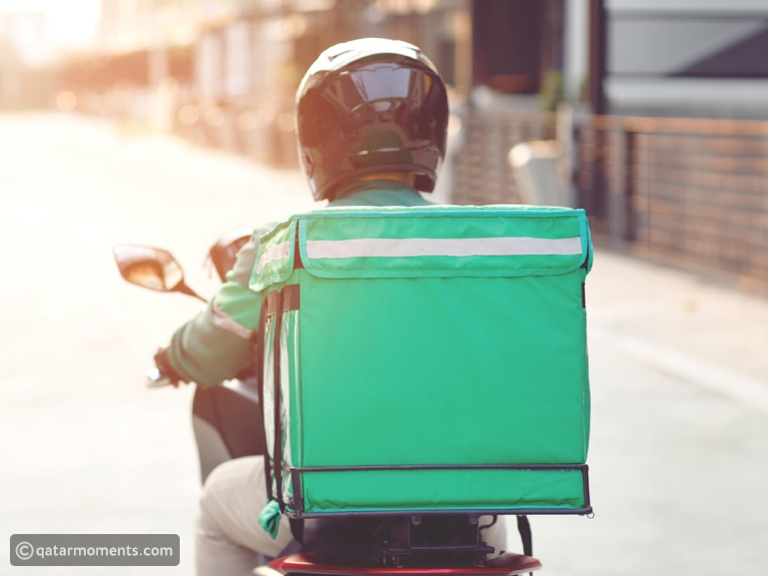
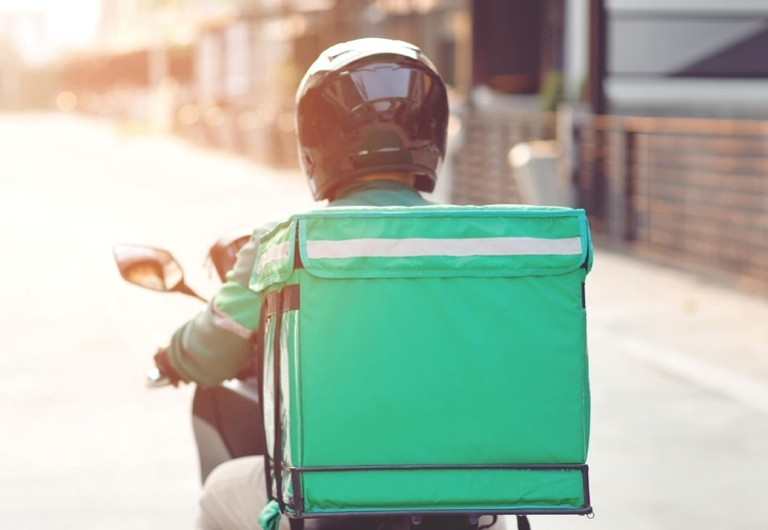
ajustei detalhes no home

diff --git a/assets/css/custom/home.css b/assets/css/custom/home.css
@@ -38,10 +38,10 @@
     background-size: cover;
     /* background-repeat: no-repeat; */
 }
-/* .banner{
+.banner{
     background-image: url("../../img/banner.png");
     background-size: cover;
-} */
+}
 .fundotxt{
     background-color: #491a0a;
     color:#e4bc81;
@@ -68,6 +68,9 @@
 .card-img{
     border-radius: 23px ;
 }
+/* .entrega-img{
+    height: 150vw;
+} */
 .icone{
     width: 40px !important;
     margin-right: 2vw;
@@ -345,3 +348,6 @@
     align-items: center;
     flex: 1;
 }
+/* .teste{
+    margin-
+} */

diff --git a/assets/css/custom/global.css b/assets/css/custom/global.css
@@ -24,7 +24,7 @@
   font-family: "open";
   text-align: justify;
   color:black;
-  font-size: 25px;
+  font-size: 23px;
   font-weight: bold;
 }
 .san{
@@ -126,4 +126,25 @@ footer{
 }
 a{
   text-decoration: none;
+}
+/* Responsividade */
+
+/* telas grandes (desktop menor) */
+@media (max-width: 1200px) {
+  
+}
+
+ /* tablets na horizontal */
+@media (max-width: 992px) {
+ 
+}
+
+ /* tablets na vertical */
+@media (max-width: 768px) {
+ 
+}
+
+ /* celulares */
+@media (max-width: 576px) {
+ 
 }

diff --git a/views/home.php b/views/home.php
@@ -67,7 +67,7 @@
 <div class="container-fluid mt-5 mb-5 bg3">
   <div class="row">
     <div class="col-2 lateral"></div>
-    <div class="col-4 mt-5 text-center">     
+    <div class="col-4 mt-5 text-center teste">     
       <h1 class="san">
         <span class="font1">Que tal</span>
         <span class="font2"> um pastel?</span>
@@ -78,18 +78,19 @@
         segredo é o amor e o carinho pelo o que fazemos!<span id="pontos" class="font2">...</span><span id="span" class="ler-mais"> A crocância e o clima descontraído 
         para degustar essas paixões gastronômicas. Procure a loja mais próxima de você.</span>
       </p>
-      <button type="button" id="btn" class="btn-en tit">Ler mais</button>
+      <button type="button" id="btn" class="btn-en tit mb-4">Ler mais</button>
     </div>
-    <div class="col-6">    
-      <img src="<?php echo BASEURL; ?>assets/img/banner.png" class="img-fluid h-100">
+    <div class="col-6 banner">    
     </div>
   </div>
 </div>
-<div class="container mb-5">
-  <div class="fundotxt mt-4 p-1 borda">
-    <h1 class="tit text-center">CONTATOS</h1>
-  </div>
+<div class="container mb-5 d-flex flex-column justify-content-center align-items center">
   <div class="row">
+    <div class="col-12 fundotxt mt-4 p-1 borda">
+      <h1 class="tit text-center">CONTATOS</h1>
+    </div>
+  </div>
+  <div class="row me-2">
     <div class="col-6">
       <div class="d-flex justify-content-center align-items-center fundotxt mt-4">
         <img src="<?php echo BASEURL; ?>assets/img/telefone.png" class="icone">
@@ -108,9 +109,9 @@
         <h1 class="tit me-5">Xerife Pastell</h1>
       </div>
     </div>
-    <div class="col-6 fundotxt mt-4">
+    <div class="col-6 fundotxt mt-4 d-flex flex-column justify-content-center align-items-center p-2">
       <h1 class="tit text-center">Localização</h1>
-      <iframe src="https://www.google.com/maps/embed?pb=!1m18!1m12!1m3!1d2855.009974729335!2d-46.8068621!3d-23.4419306!2m3!1f0!2f0!3f0!3m2!1i1024!2i768!4f13.1!3m3!1m2!1s0x94cefd6cc0d83ccf%3A0xe8c2c9d1b8163226!2sR.%20das%20Fl%C3%B4res%2C%20123%20-%20Vila%20dos%20Palmares%2C%20S%C3%A3o%20Paulo%20-%20SP%2C%2012345-678!5e1!3m2!1spt-BR!2sbr!4v1756008340330!5m2!1spt-BR!2sbr" width="550" height="235" style="border:0;" allowfullscreen="" loading="lazy" referrerpolicy="no-referrer-when-downgrade">
+      <iframe src="https://www.google.com/maps/embed?pb=!1m18!1m12!1m3!1d2855.009974729335!2d-46.8068621!3d-23.4419306!2m3!1f0!2f0!3f0!3m2!1i1024!2i768!4f13.1!3m3!1m2!1s0x94cefd6cc0d83ccf%3A0xe8c2c9d1b8163226!2sR.%20das%20Fl%C3%B4res%2C%20123%20-%20Vila%20dos%20Palmares%2C%20S%C3%A3o%20Paulo%20-%20SP%2C%2012345-678!5e1!3m2!1spt-BR!2sbr!4v1756008340330!5m2!1spt-BR!2sbr" width="540" height="220" allowfullscreen="" loading="lazy" referrerpolicy="no-referrer-when-downgrade">
       </iframe>
     </div>
   </div>
